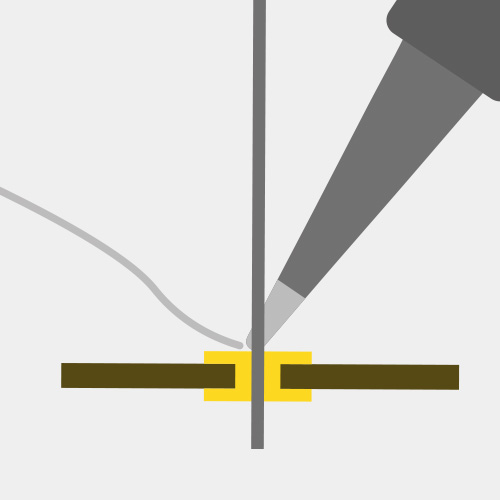
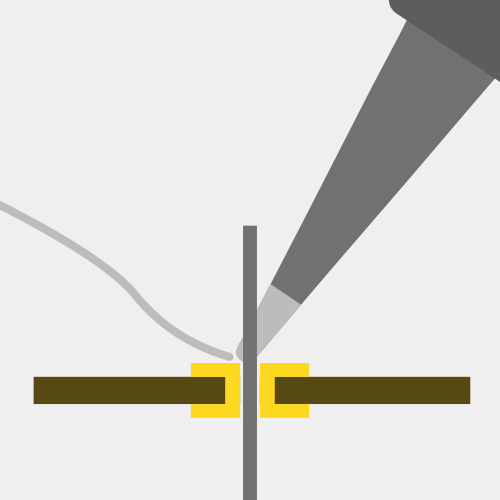
Fixes for soldering descriptions and illustrations

diff --git a/docs/tutorials/04-assemble-custom-component/soldering.md b/docs/tutorials/04-assemble-custom-component/soldering.md
@@ -38,7 +38,7 @@ First, let us take a look at the tools we will need:
 | Flux Pen                                                     | Solder Wick                                                  |
 | ------------------------------------------------------------ | ------------------------------------------------------------ |
 | <img src="assets/tutorial4-tools-flux.jpg" alt="Flux Pen" width="500"> | <img src="assets/tutorial4-tools-wick.jpg" alt="Solder Wick" width="500"> |
-| Add flux a solder joint for repair work or to make the solder flow better. NEEDED IF WORKING WITH SOLDER WITH NO FLUX CORE. | Can be used to "soak up" excess solder. Important in removing solder bridges, desoldering components, and other repair work. |
+| Add flux a solder joint for repair work or to make the solder flow better. **Needed if using solder that does not have a flux core.** | Can be used to "soak up" excess solder. Important in removing solder bridges, desoldering components, and other repair work. |
 
 
 
@@ -48,16 +48,24 @@ First, let us take a look at the tools we will need:
 
 | Step                                     | Description                                                  | Preview                                                      |
 | ---------------------------------------- | ------------------------------------------------------------ | ------------------------------------------------------------ |
-| **0. Before you begin**                  | Make sure the power to your work station is turned on.       | <img src="assets/tutorial4-pth-power.jpg" alt="Power On" style="zoom:120%;" /> |
-| **1. Pre-heat the iron**                 | Turn on the exhaust and the soldering iron. Set the iron to 370°C and let it heat up for a few seconds. (370°C works best for the lead-free solder, for leaded solder use 340°C) | ![Settings](assets/tutorial4-pth-settings.jpg)               |
-| **2. Clean and tin the tip** (if needed) | Make sure the tip of your soldering iron is shiny. If it is blackened and matte, dirt and oxidation will prevent the heat from transfering into the joint. In this case, wipe the tip of the iron in the brass sponge to clean it. Then tin it by applying a bit of solder to the tip. It should look shiny before you proceed. | ![Oxidation](assets/tutorial4-pth-oxidation.jpg)![Tinned Tip](assets/tutorial4-pth-tinning.jpg) |
-| **3. Seat a component**                  | Insert one or more components and fix them. Components with flexible leads (e.g. resistors) can be easily fixed by bending the legs on the back of the PCB. Other components are easier to fix with a vise. Avoid short-circuits by checking that components are not touching any other conductive parts of the board. **Secure the hot iron in the stand while you do this.** | ![Populating](assets/tutorial4-pth-populating.jpg)![Fixing](assets/tutorial4-pth-fixing.jpg) |
-| **4. Make a joint**                      | Apply heat to the joint you want to solder for a few seconds. Make sure you heat the pad and the lead at the same time. Then feed some solder wire into the joint until it is fully covered in solder and forms a tent shape. | ![Joining](assets/tutorial4-pth-joining.jpg)                 |
-| **5. Trim excess leads**                 | Use the flus cuttes to cut excess leads as close as possible to the board. | ![Trimming](assets/tutorial4-pth-trimming.jpg)               |
+| **0. Before you begin**                  | Make sure the power to your work station is turned on. Ensure the circuit breaker (1) is in the On position (up), then turn on the switch (2). If the power remains off, the Emergency Stop button may be tripped, ask for assistance. | <img src="assets/tutorial4-pth-power.jpg" alt="Power On" style="zoom:120%;" /> |
+| **1. Pre-heat the iron**                 | Turn on the exhaust and the soldering iron. Set the iron to **370°C** and let it heat up for a few seconds. (370°C works best for the lead-free solder, for leaded solder use 340°C) | ![Settings](assets/tutorial4-pth-settings.jpg)               |
+| **2. Clean and tin the tip** (if needed) | Make sure the tip of your soldering iron is shiny. If it is blackened and matte, dirt and oxidation will prevent the heat from transfering into the joint. In this case, wipe the tip of the iron in the brass sponge to clean it. Then tin it by applying a bit of solder to the tip. **The tip should look shiny** before you proceed. | ![Oxidation](assets/tutorial4-pth-oxidation.jpg)![Tinned Tip](assets/tutorial4-pth-tinning.jpg) |
+| **3. Seat a component**                  | Insert one or more components and fix them. Components with flexible leads (e.g. resistors) can be easily fixed by bending the legs on the back of the PCB. Other components are easier to fix with a vise. **Avoid short-circuits** by checking that components are not touching any other conductive parts of the board. **Secure the hot iron in the stand while you do this.** | ![Populating](assets/tutorial4-pth-populating.jpg)![Fixing](assets/tutorial4-pth-fixing.jpg) |
+| **4. Make a joint**                      | Apply heat to the joint you want to solder for a few seconds. Make sure you heat the pad and the lead at the same time. Then feed some solder wire into the joint until it is **fully covered** in solder and forms a tent shape. (If the through-hole is much wider than the component lead, it is OK if the joint is flat.) | ![Joining](assets/tutorial4-pth-joining.jpg)![Tented](assets/tutorial4-pth-tented.jpg) |
+| **5. Trim excess leads**                 | Use the flush cuttes to cut excess leads as close as possible to the board. | ![Trimming](assets/tutorial4-pth-trimming.jpg)               |
 | **6. Inspect**                           | Check that all the joints look good and no solder bridges/short circuits exist. Check the following paragraph for guidance on finding and resolving issues. | ![Inspecting](assets/tutorial4-pth-inspecting.jpg)           |
-| **7. Wrap-up**                           | Clean the tip of the iron (see step 2) so the next person finds it in working order, and turn off your iron. If no one else is working at the station when you leave, turn off the main power. | ![Power Off](assets/tutorial4-pth-poweroff.jpg)              |
+| **7. Wrap-up**                           | Tin the tip of the iron (see step 2) so the next person finds it in working order. **Don't forget to turn off your iron. If no one else is working at the station when you leave, turn off the main power.** | ![Power Off](assets/tutorial4-pth-poweroff.jpg)              |
 
 ### How to find and fix bad solder joints
+
+#### Inspect your joints
+
+| Description | Preview |
+| ----------- | ------- |
+|             |         |
+
+
 
 Instructions coming soon
 {: .label .label-yellow }
